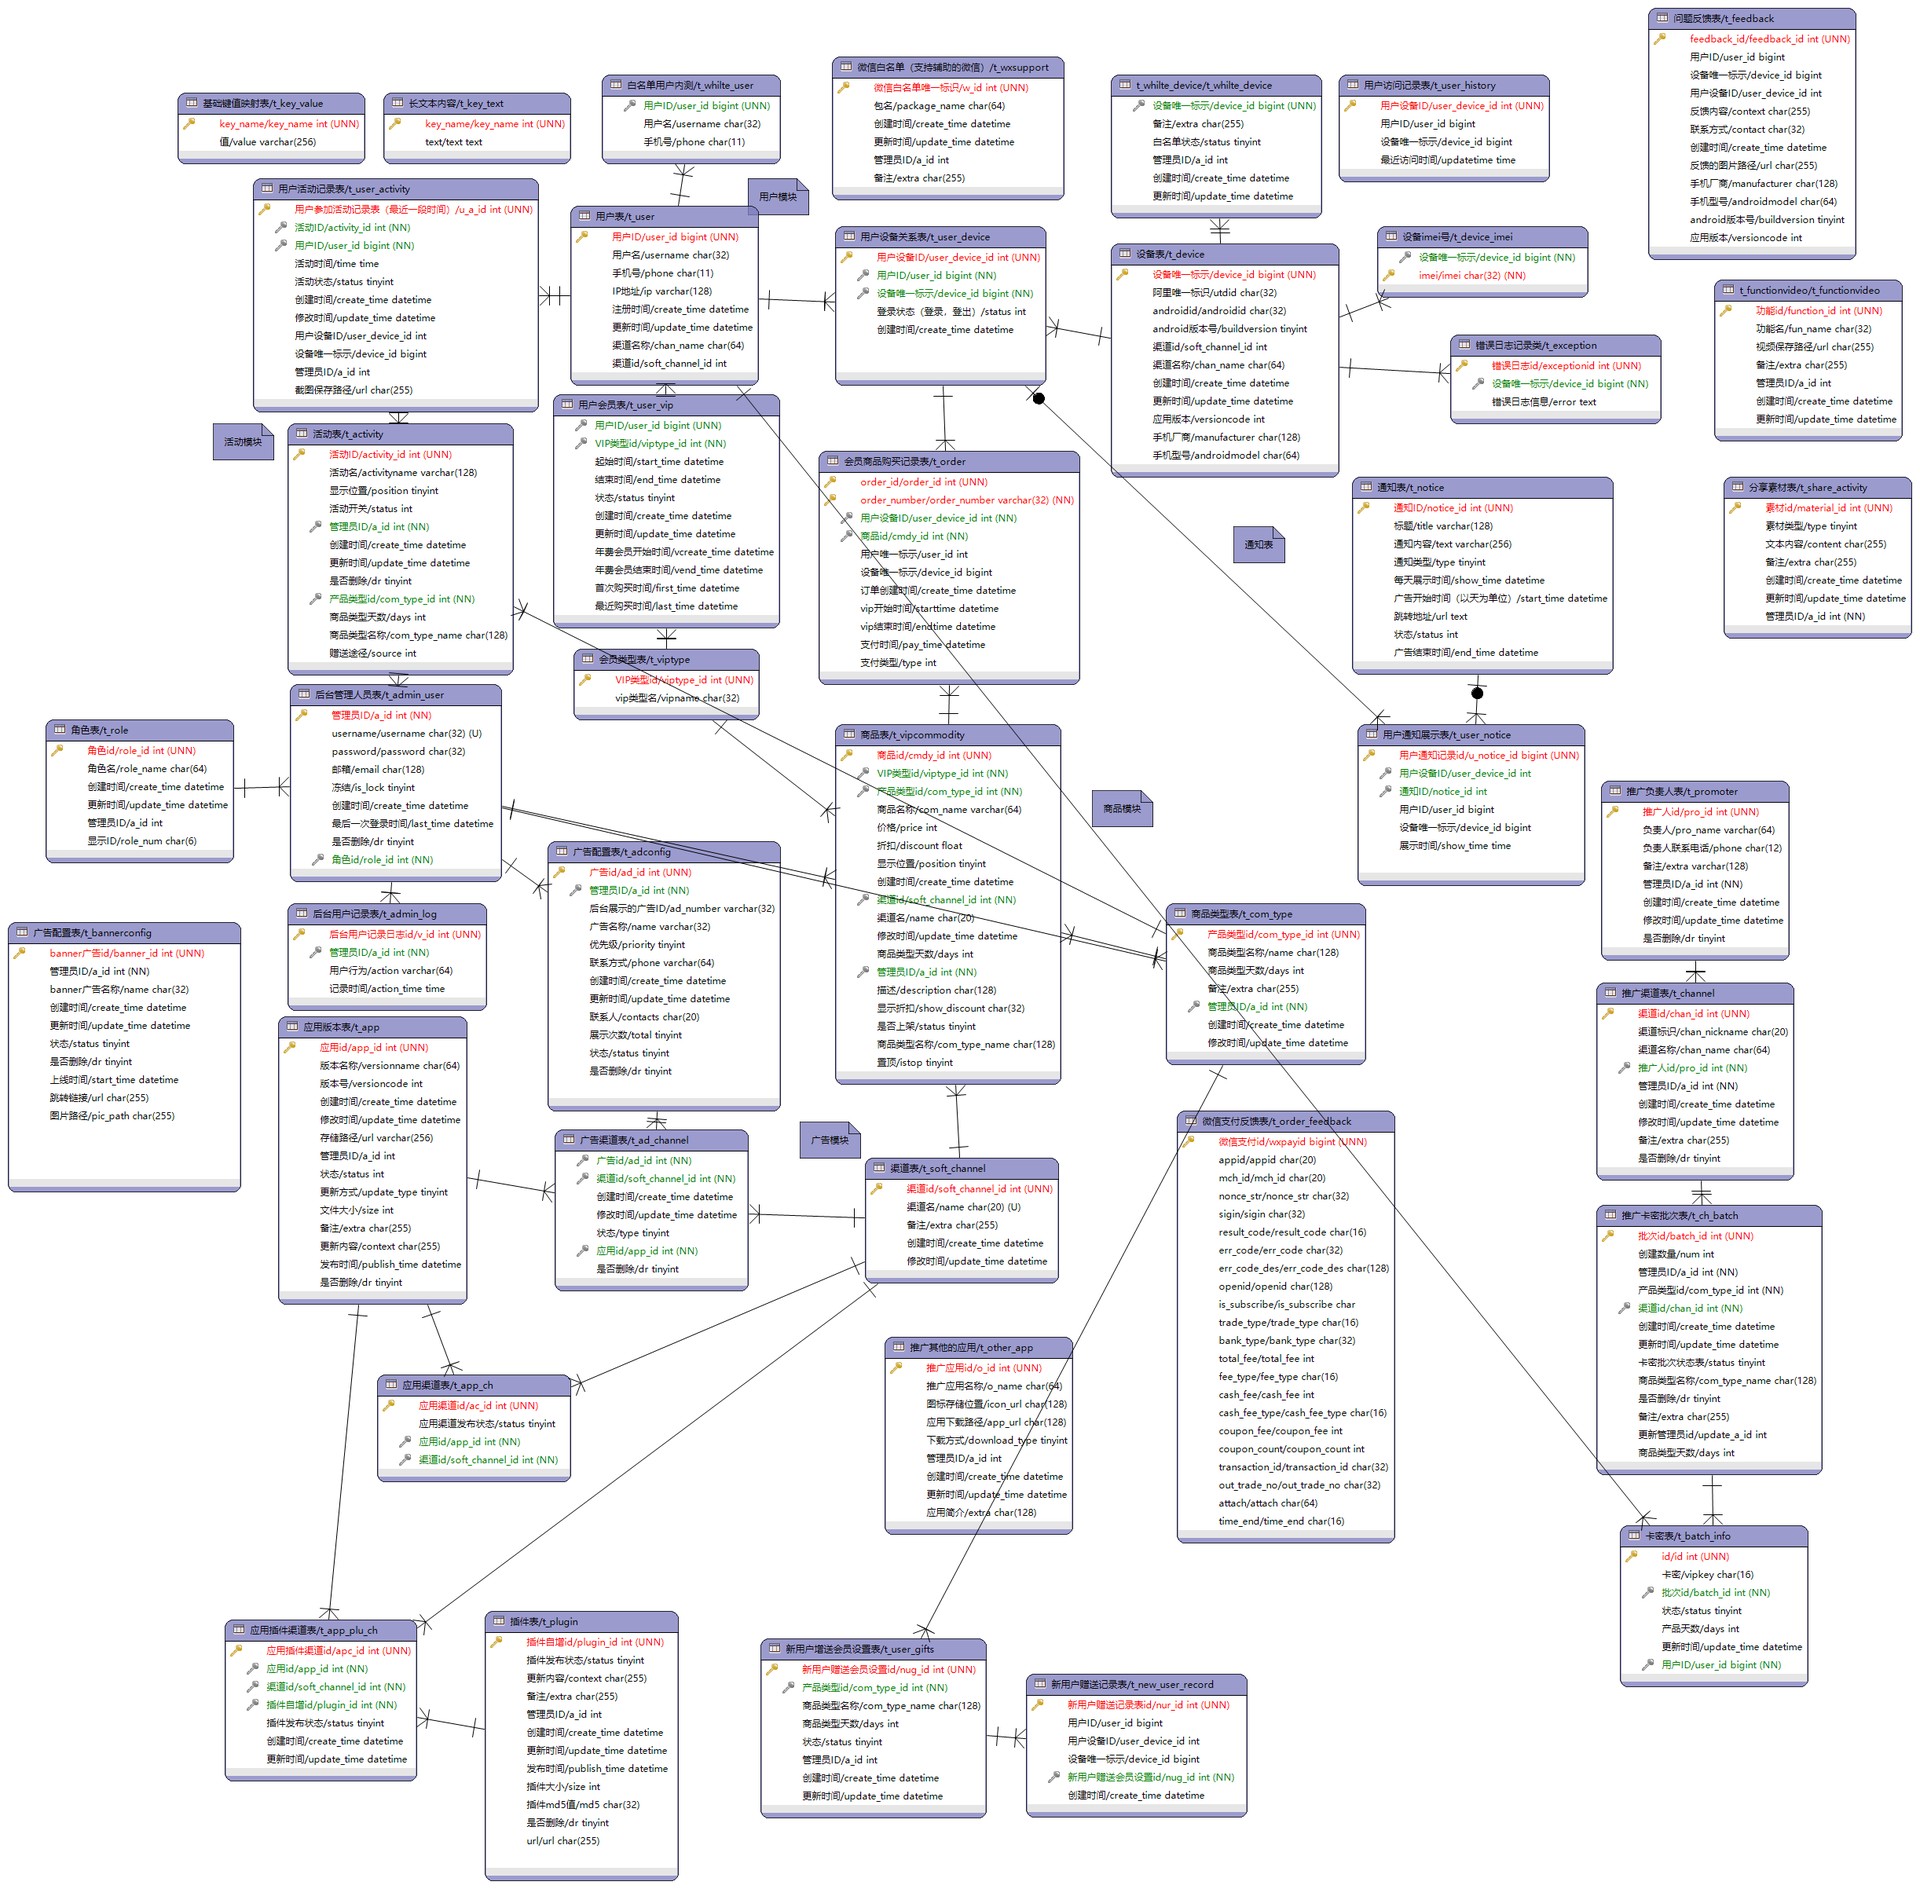
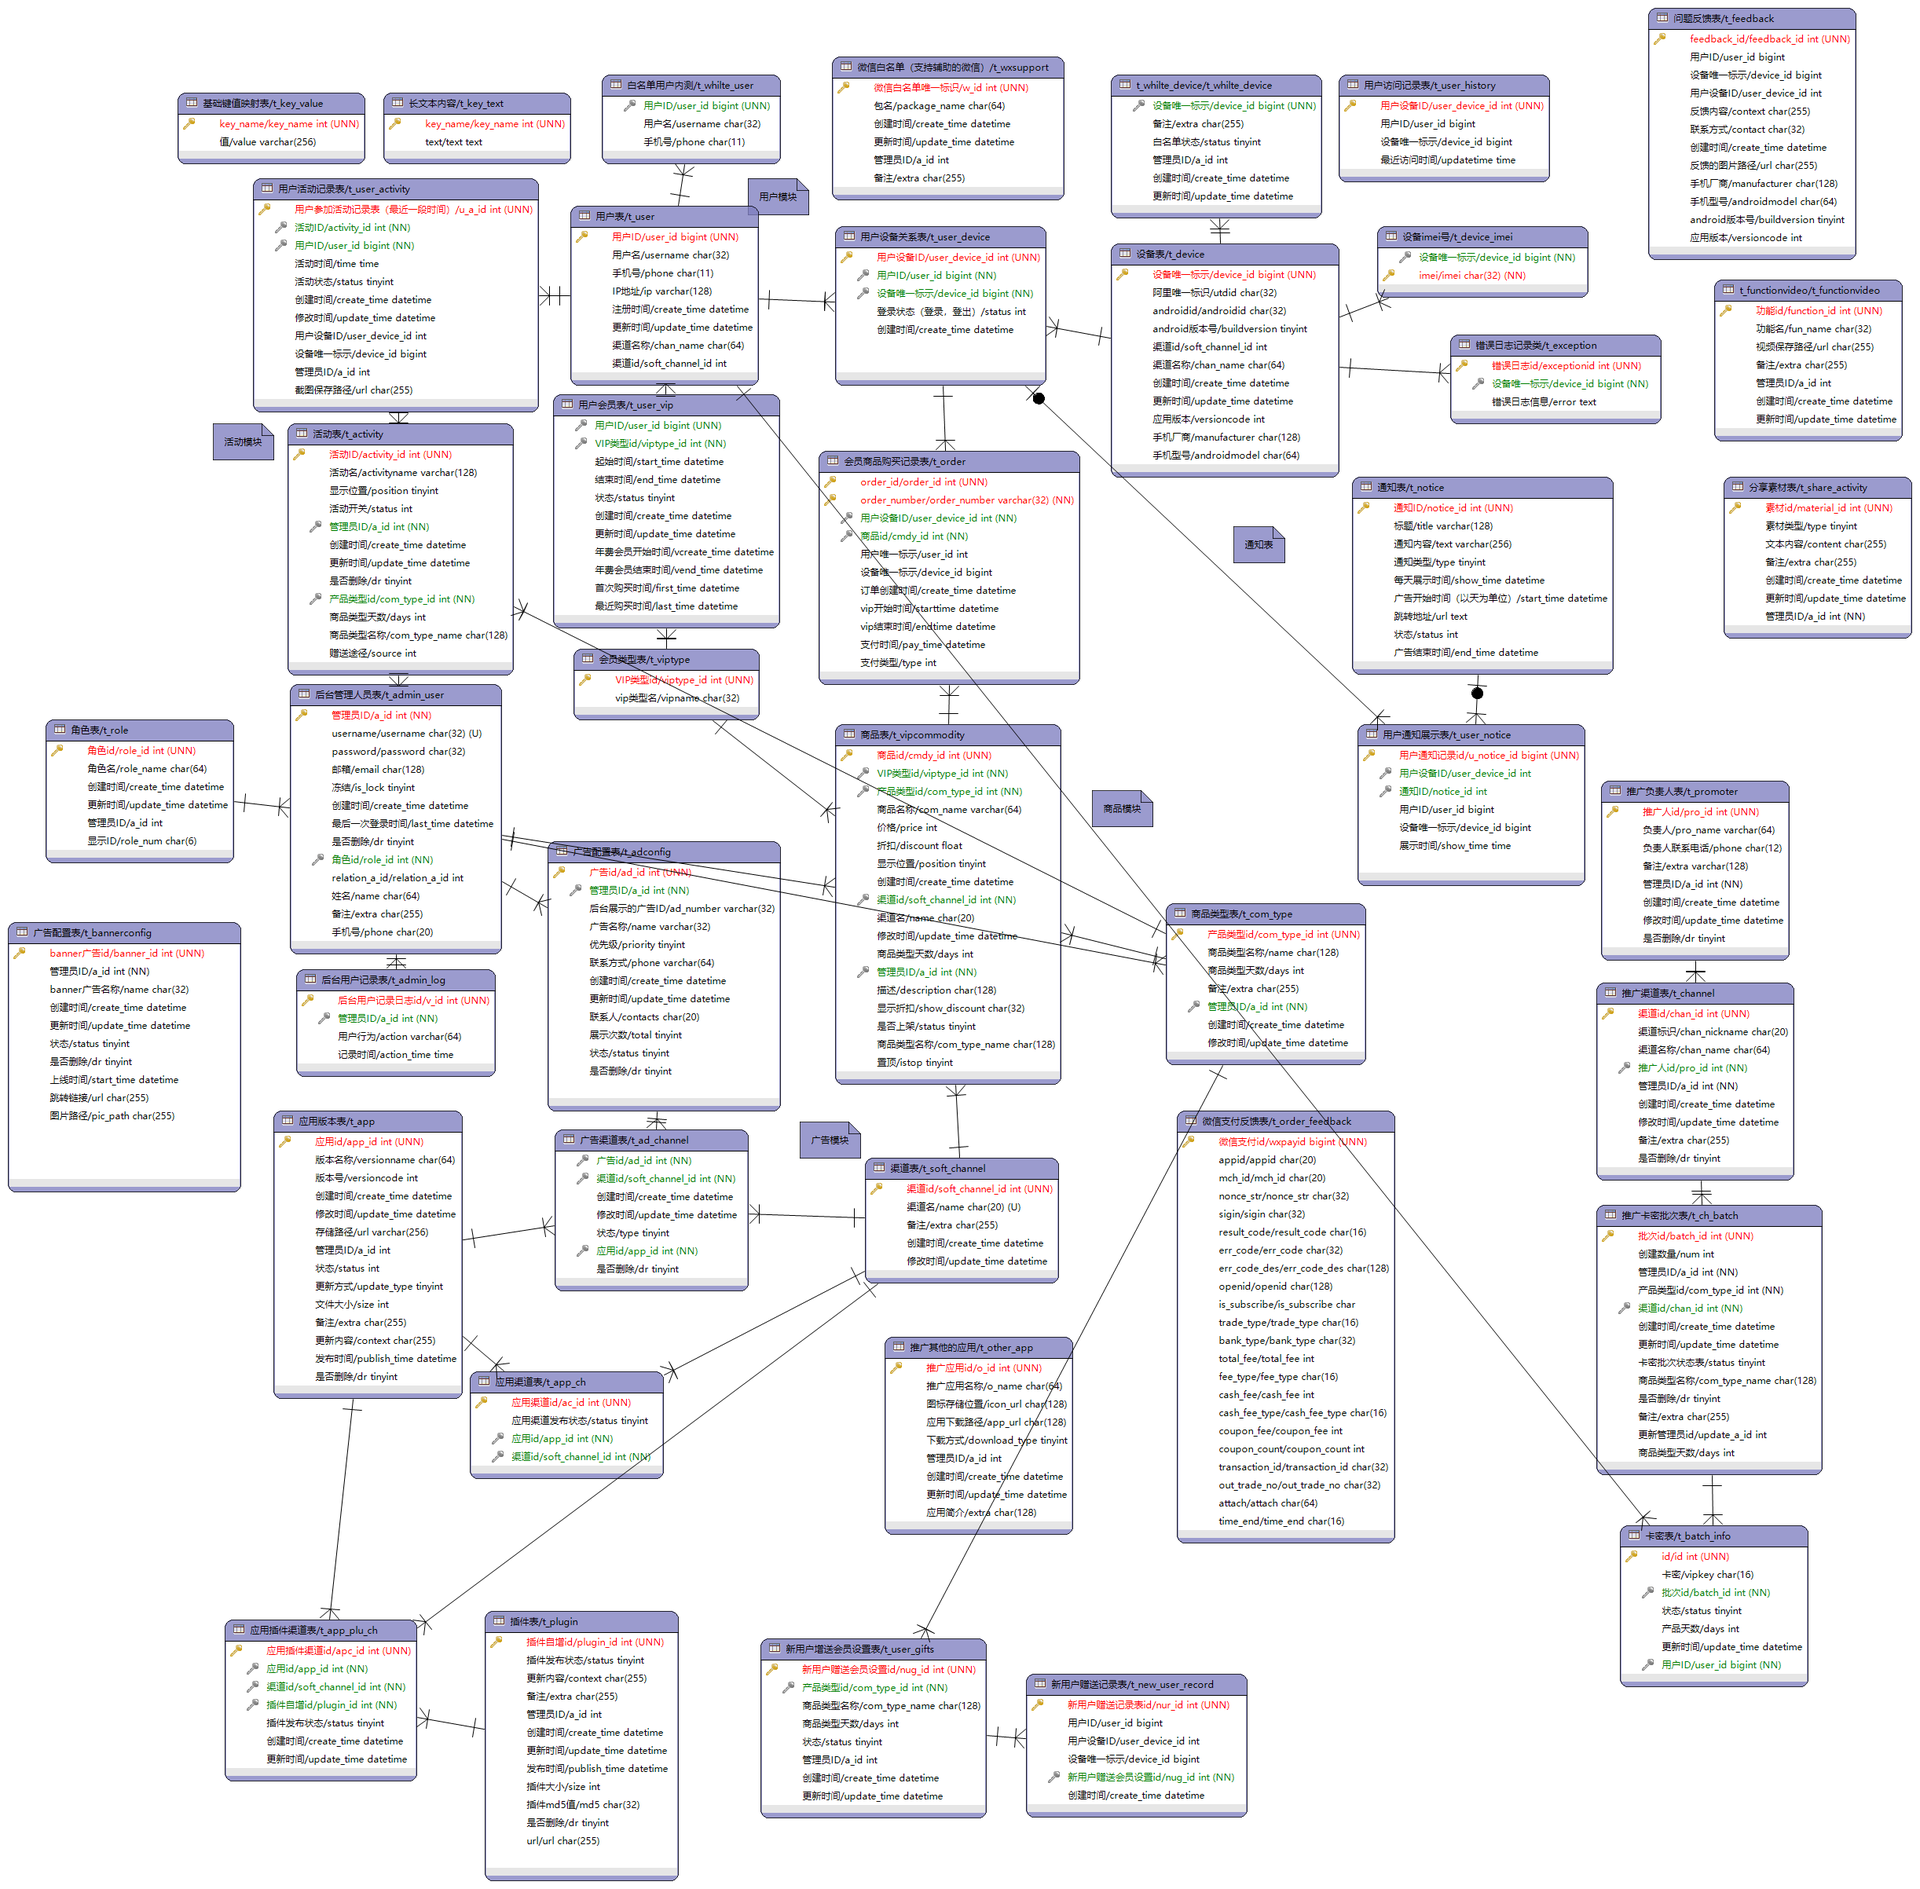
update t_admin_user

Changed region(s): [[0.1244, 0.4366, 0.3421, 0.8108]]

diff --git a/smartweb/src/main/java/com/rpa/web/pojo/AdminUserPO.java b/smartweb/src/main/java/com/rpa/web/pojo/AdminUserPO.java
@@ -29,6 +29,14 @@ public class AdminUserPO implements Serializable {
 
     private Integer roleId;
 
+    private Integer relationAId;
+
+    private String name;
+
+    private String extra;
+
+    private String phone;
+
     private static final long serialVersionUID = 1L;
 
     public Integer getaId() {
@@ -103,6 +111,38 @@ public class AdminUserPO implements Serializable {
         this.roleId = roleId;
     }
 
+    public Integer getRelationAId() {
+        return relationAId;
+    }
+
+    public void setRelationAId(Integer relationAId) {
+        this.relationAId = relationAId;
+    }
+
+    public String getName() {
+        return name;
+    }
+
+    public void setName(String name) {
+        this.name = name;
+    }
+
+    public String getExtra() {
+        return extra;
+    }
+
+    public void setExtra(String extra) {
+        this.extra = extra;
+    }
+
+    public String getPhone() {
+        return phone;
+    }
+
+    public void setPhone(String phone) {
+        this.phone = phone;
+    }
+
     @Override
     public boolean equals(Object that) {
         if (this == that) {
@@ -123,7 +163,11 @@ public class AdminUserPO implements Serializable {
             && (this.getCreateTime() == null ? other.getCreateTime() == null : this.getCreateTime().equals(other.getCreateTime()))
             && (this.getLastTime() == null ? other.getLastTime() == null : this.getLastTime().equals(other.getLastTime()))
             && (this.getDr() == null ? other.getDr() == null : this.getDr().equals(other.getDr()))
-            && (this.getRoleId() == null ? other.getRoleId() == null : this.getRoleId().equals(other.getRoleId()));
+            && (this.getRoleId() == null ? other.getRoleId() == null : this.getRoleId().equals(other.getRoleId()))
+            && (this.getRelationAId() == null ? other.getRelationAId() == null : this.getRelationAId().equals(other.getRelationAId()))
+            && (this.getName() == null ? other.getName() == null : this.getName().equals(other.getName()))
+            && (this.getExtra() == null ? other.getExtra() == null : this.getExtra().equals(other.getExtra()))
+            && (this.getPhone() == null ? other.getPhone() == null : this.getPhone().equals(other.getPhone()));
     }
 
     @Override
@@ -139,6 +183,10 @@ public class AdminUserPO implements Serializable {
         result = prime * result + ((getLastTime() == null) ? 0 : getLastTime().hashCode());
         result = prime * result + ((getDr() == null) ? 0 : getDr().hashCode());
         result = prime * result + ((getRoleId() == null) ? 0 : getRoleId().hashCode());
+        result = prime * result + ((getRelationAId() == null) ? 0 : getRelationAId().hashCode());
+        result = prime * result + ((getName() == null) ? 0 : getName().hashCode());
+        result = prime * result + ((getExtra() == null) ? 0 : getExtra().hashCode());
+        result = prime * result + ((getPhone() == null) ? 0 : getPhone().hashCode());
         return result;
     }
 
@@ -157,6 +205,10 @@ public class AdminUserPO implements Serializable {
         sb.append(", lastTime=").append(lastTime);
         sb.append(", dr=").append(dr);
         sb.append(", roleId=").append(roleId);
+        sb.append(", relationAId=").append(relationAId);
+        sb.append(", name=").append(name);
+        sb.append(", extra=").append(extra);
+        sb.append(", phone=").append(phone);
         sb.append(", serialVersionUID=").append(serialVersionUID);
         sb.append("]");
         return sb.toString();
